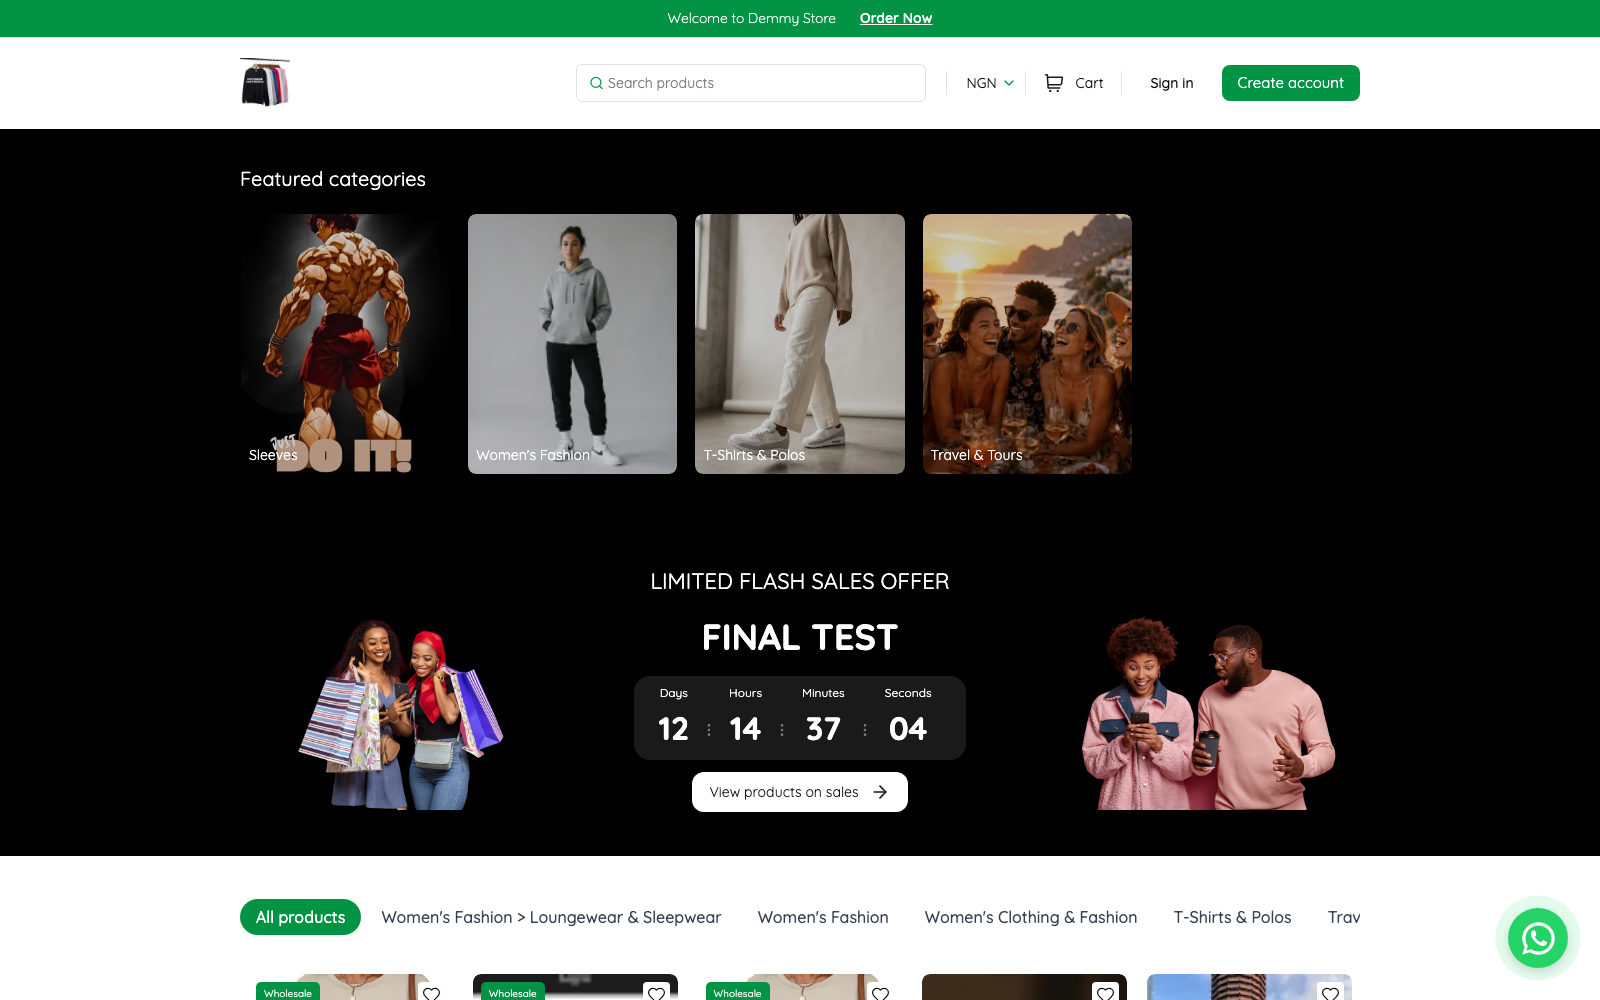
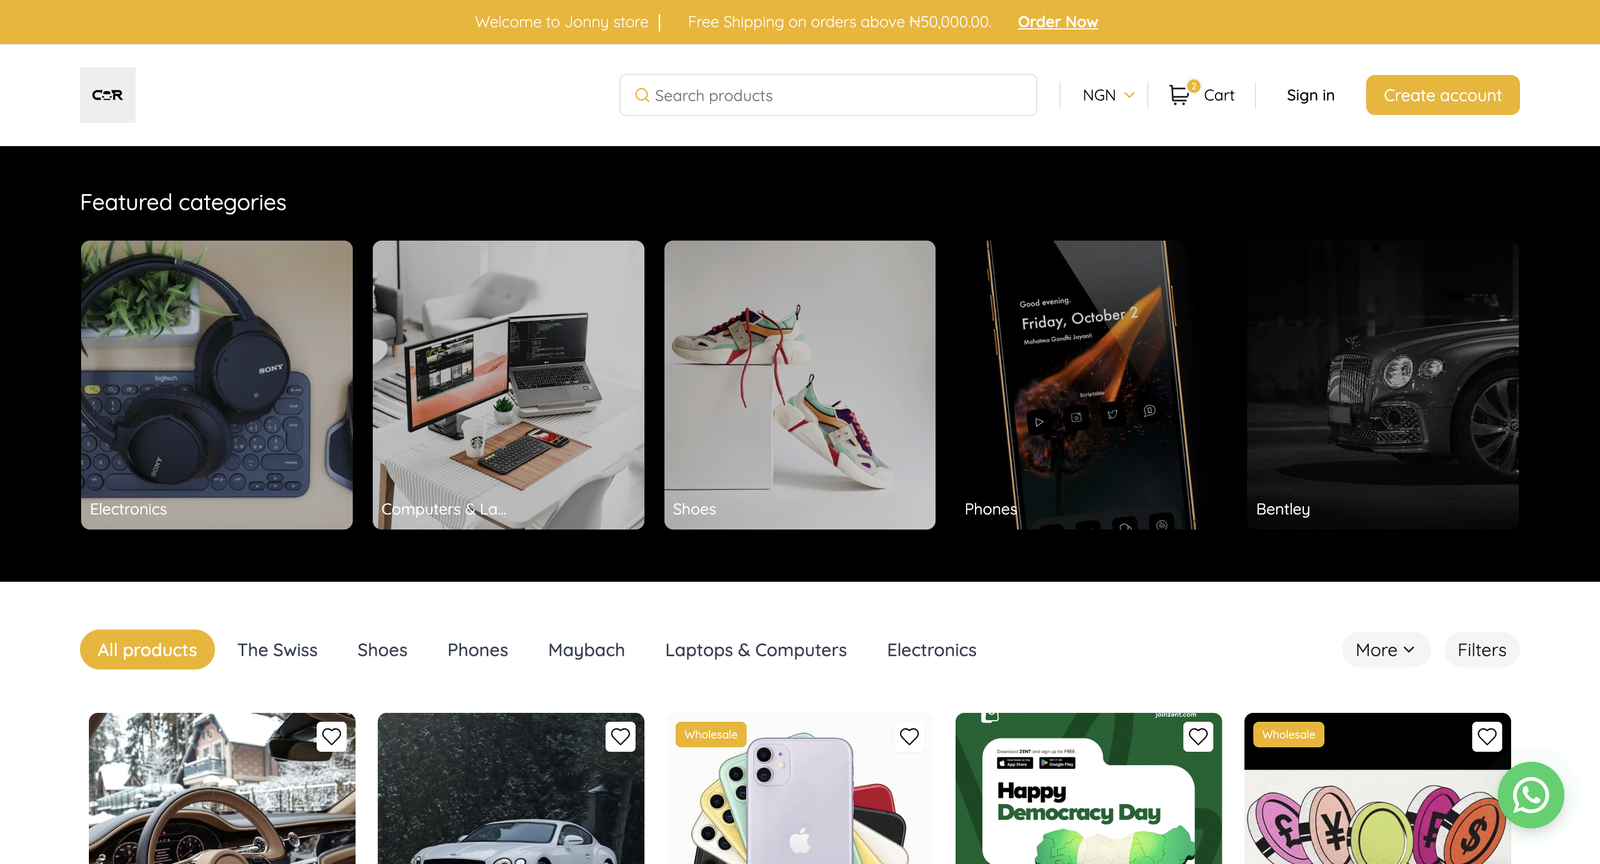
feat: clean cropped screenshots for case studies 1 and 2
Vendor dashboard overview and Jonny store marketplace storefront,
browser chrome cropped out

diff --git a/components/CaseStudies.tsx b/components/CaseStudies.tsx
@@ -46,8 +46,8 @@ const caseStudies: CaseStudy[] = [
       "Tailwind",
       "Paystack / Stripe / Flutterwave / Nomba APIs",
     ],
-    image: "/zent-vendor.png",
-    imageAlt: "Zent vendor dashboard — products view (demo store)",
+    image: "/case-vendor-dashboard.png",
+    imageAlt: "Zent vendor dashboard — overview with sales, orders, and payouts",
     links: [
       {
         label: "joinzent.com",
@@ -80,7 +80,7 @@ const caseStudies: CaseStudy[] = [
       "Live stores run on it right now, real customers checking out on storefronts I engineered.",
     stack: ["React", "Next.js", "TypeScript", "Tailwind"],
     image: "/case-storefront.png",
-    imageAlt: "Zent storefront — demo store homepage",
+    imageAlt: "Zent marketplace storefront — live store homepage",
     links: [
       {
         label: "Demo store",